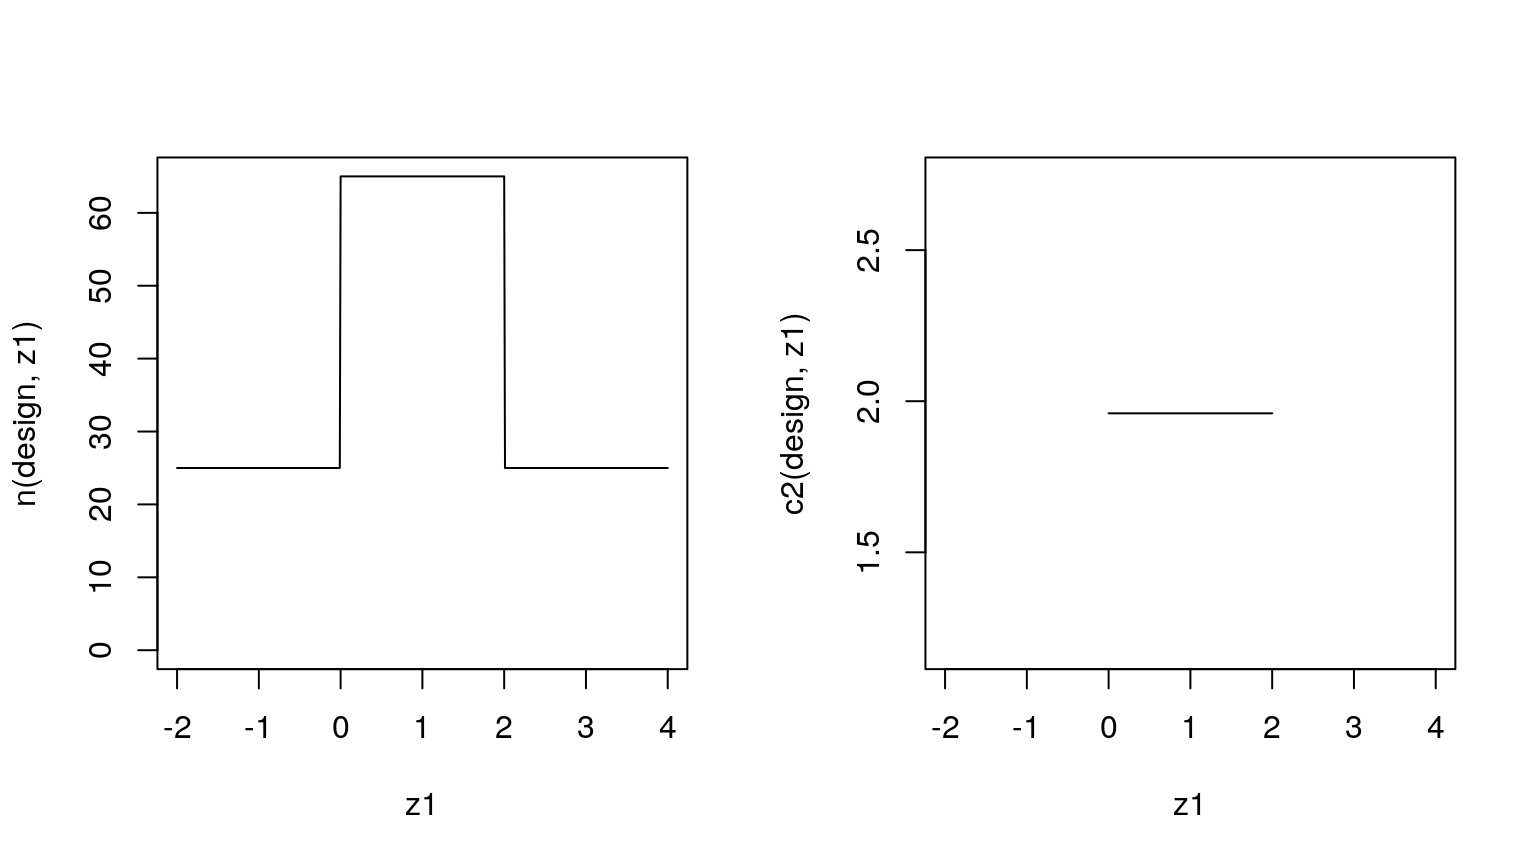
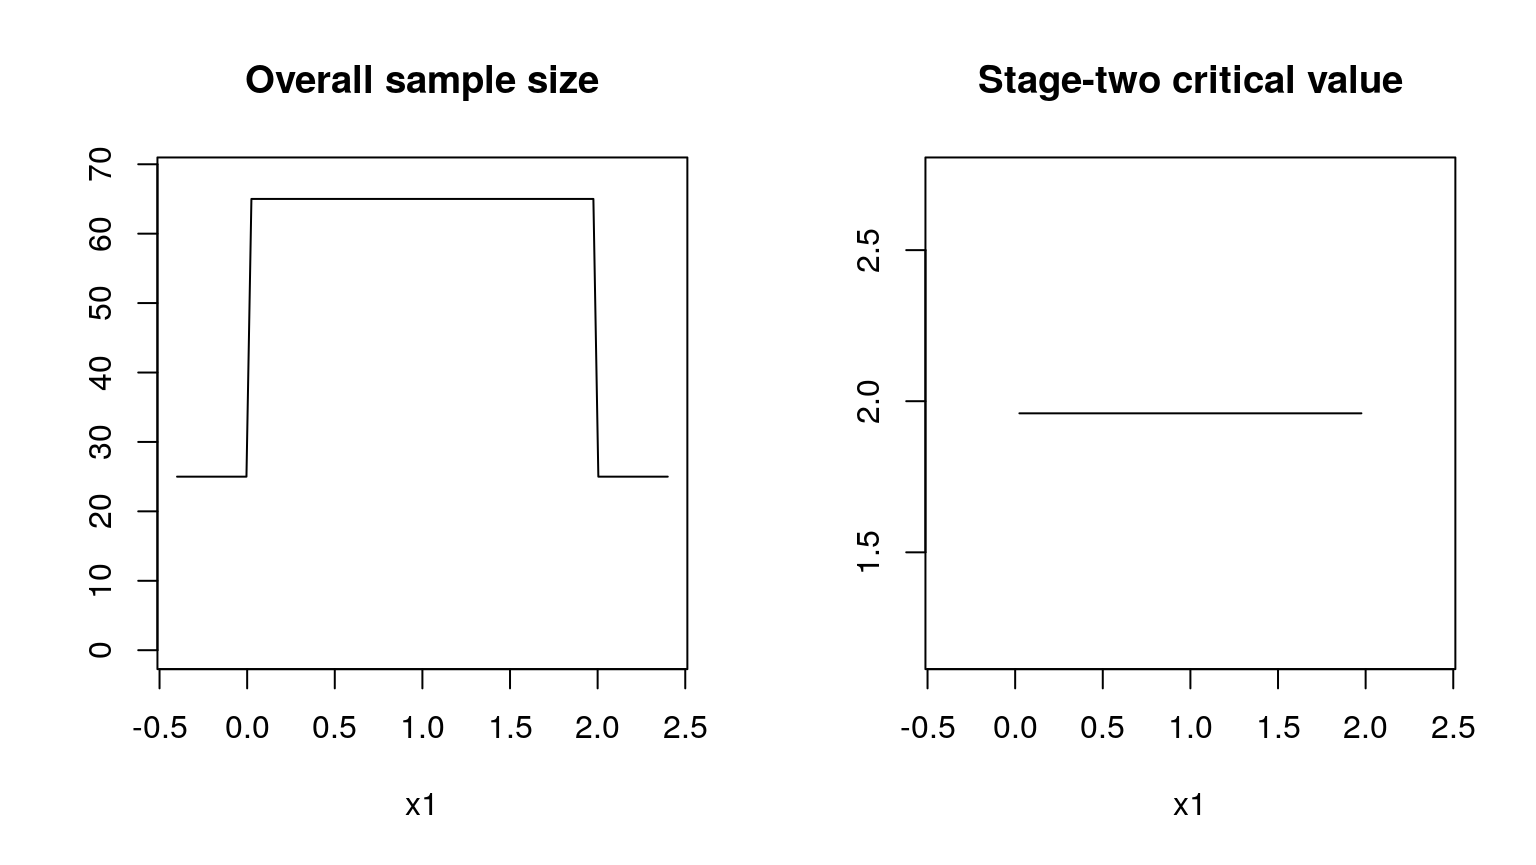
updated pkgdown

diff --git a/docs/reference/TwoStagDesign-class.html b/docs/reference/TwoStagDesign-class.html
@@ -1,0 +1,161 @@
+<!-- Generated by pkgdown: do not edit by hand -->
+<!DOCTYPE html>
+<html>
+  <head>
+  <meta charset="utf-8">
+<meta http-equiv="X-UA-Compatible" content="IE=edge">
+<meta name="viewport" content="width=device-width, initial-scale=1.0">
+
+<title>Plot TwoStageDesign with optional set of conditional scores — plot,TwoStageDesign-method • otsd</title>
+
+<!-- jquery -->
+<script src="https://code.jquery.com/jquery-3.1.0.min.js" integrity="sha384-nrOSfDHtoPMzJHjVTdCopGqIqeYETSXhZDFyniQ8ZHcVy08QesyHcnOUpMpqnmWq" crossorigin="anonymous"></script>
+<!-- Bootstrap -->
+
+<link href="https://maxcdn.bootstrapcdn.com/bootstrap/3.3.7/css/bootstrap.min.css" rel="stylesheet" integrity="sha384-BVYiiSIFeK1dGmJRAkycuHAHRg32OmUcww7on3RYdg4Va+PmSTsz/K68vbdEjh4u" crossorigin="anonymous">
+<script src="https://maxcdn.bootstrapcdn.com/bootstrap/3.3.7/js/bootstrap.min.js" integrity="sha384-Tc5IQib027qvyjSMfHjOMaLkfuWVxZxUPnCJA7l2mCWNIpG9mGCD8wGNIcPD7Txa" crossorigin="anonymous"></script>
+
+<!-- Font Awesome icons -->
+<link href="https://maxcdn.bootstrapcdn.com/font-awesome/4.6.3/css/font-awesome.min.css" rel="stylesheet" integrity="sha384-T8Gy5hrqNKT+hzMclPo118YTQO6cYprQmhrYwIiQ/3axmI1hQomh7Ud2hPOy8SP1" crossorigin="anonymous">
+
+<!-- clipboard.js -->
+<script src="https://cdnjs.cloudflare.com/ajax/libs/clipboard.js/1.7.1/clipboard.min.js" integrity="sha384-cV+rhyOuRHc9Ub/91rihWcGmMmCXDeksTtCihMupQHSsi8GIIRDG0ThDc3HGQFJ3" crossorigin="anonymous"></script>
+
+<!-- sticky kit -->
+<script src="https://cdnjs.cloudflare.com/ajax/libs/sticky-kit/1.1.3/sticky-kit.min.js" integrity="sha256-c4Rlo1ZozqTPE2RLuvbusY3+SU1pQaJC0TjuhygMipw=" crossorigin="anonymous"></script>
+
+<!-- pkgdown -->
+<link href="../pkgdown.css" rel="stylesheet">
+<script src="../pkgdown.js"></script>
+
+
+
+<meta property="og:title" content="Plot TwoStageDesign with optional set of conditional scores — plot,TwoStageDesign-method" />
+
+<meta property="og:description" content="[TODO]" />
+<meta name="twitter:card" content="summary" />
+
+
+
+<!-- mathjax -->
+<script src='https://mathjax.rstudio.com/latest/MathJax.js?config=TeX-AMS-MML_HTMLorMML'></script>
+
+<!--[if lt IE 9]>
+<script src="https://oss.maxcdn.com/html5shiv/3.7.3/html5shiv.min.js"></script>
+<script src="https://oss.maxcdn.com/respond/1.4.2/respond.min.js"></script>
+<![endif]-->
+
+
+  </head>
+
+  <body>
+    <div class="container template-reference-topic">
+      <header>
+      <div class="navbar navbar-default navbar-fixed-top" role="navigation">
+  <div class="container">
+    <div class="navbar-header">
+      <button type="button" class="navbar-toggle collapsed" data-toggle="collapse" data-target="#navbar">
+        <span class="icon-bar"></span>
+        <span class="icon-bar"></span>
+        <span class="icon-bar"></span>
+      </button>
+      <span class="navbar-brand">
+        <a class="navbar-link" href="../index.html">otsd</a>
+        <span class="label label-default" data-toggle="tooltip" data-placement="bottom" title="Released package">0.1.0</span>
+      </span>
+    </div>
+
+    <div id="navbar" class="navbar-collapse collapse">
+      <ul class="nav navbar-nav">
+        <li>
+  <a href="../index.html">
+    <span class="fa fa-home fa-lg"></span>
+     
+  </a>
+</li>
+<li>
+  <a href="../articles/otsd.html">Get started</a>
+</li>
+<li>
+  <a href="../reference/index.html">Reference</a>
+</li>
+      </ul>
+      
+      <ul class="nav navbar-nav navbar-right">
+        <li>
+  <a href="https://github.com/kkmann/otsd">
+    <span class="fa fa-github fa-lg"></span>
+     
+  </a>
+</li>
+      </ul>
+      
+    </div><!--/.nav-collapse -->
+  </div><!--/.container -->
+</div><!--/.navbar -->
+
+      
+      </header>
+
+<div class="row">
+  <div class="col-md-9 contents">
+    <div class="page-header">
+    <h1>Plot TwoStageDesign with optional set of conditional scores</h1>
+    <small class="dont-index">Source: <a href='https://github.com/kkmann/otsd/blob/master/R/TwoStageDesign.R'><code>R/TwoStageDesign.R</code></a></small>
+    <div class="hidden name"><code>TwoStagDesign-class.Rd</code></div>
+    </div>
+
+    <div class="ref-description">
+    
+    <p>[TODO]</p>
+    
+    </div>
+
+    <pre class="usage"><span class='co'># S4 method for TwoStageDesign</span>
+<span class='fu'>plot</span>(<span class='no'>x</span>, <span class='no'>...</span>, <span class='kw'>k</span> <span class='kw'>=</span> <span class='fl'>100</span>)</pre>
+    
+    <h2 class="hasAnchor" id="arguments"><a class="anchor" href="#arguments"></a>Arguments</h2>
+    <table class="ref-arguments">
+    <colgroup><col class="name" /><col class="desc" /></colgroup>
+    <tr>
+      <th>x</th>
+      <td><p>design object to plot</p></td>
+    </tr>
+    <tr>
+      <th>...</th>
+      <td><p>optinal additional named ConditionalScores to plot</p></td>
+    </tr>
+    <tr>
+      <th>k</th>
+      <td><p>number of points to use for plotting</p></td>
+    </tr>
+    </table>
+    
+
+  </div>
+  <div class="col-md-3 hidden-xs hidden-sm" id="sidebar">
+    <h2>Contents</h2>
+    <ul class="nav nav-pills nav-stacked">
+      <li><a href="#arguments">Arguments</a></li>
+                </ul>
+
+  </div>
+</div>
+
+      <footer>
+      <div class="copyright">
+  <p>Developed by Kevin Kunzmann, Maximilian Pilz.</p>
+</div>
+
+<div class="pkgdown">
+  <p>Site built with <a href="http://pkgdown.r-lib.org/">pkgdown</a>.</p>
+</div>
+
+      </footer>
+   </div>
+
+  
+
+  </body>
+</html>
+

diff --git a/docs/articles/otsd.html b/docs/articles/otsd.html
@@ -70,7 +70,7 @@
       <h1>OTSD quickstart</h1>
                         <h4 class="author">Kevin Kunzmann</h4>
             
-            <h4 class="date">2018-12-10</h4>
+            <h4 class="date">2018-12-11</h4>
       
       <small class="dont-index">Source: <a href="https://github.com/kkmann/otsd/blob/master/vignettes/otsd.Rmd"><code>vignettes/otsd.Rmd</code></a></small>
       <div class="hidden name"><code>otsd.Rmd</code></div>
@@ -91,9 +91,7 @@
 <a class="sourceLine" id="cb1-9" data-line-number="9">  <span class="dt">order =</span> order)</a>
 <a class="sourceLine" id="cb1-10" data-line-number="10"><span class="co">#TODO we need nice output for out designs...</span></a></code></pre></div>
 <div class="sourceCode" id="cb2"><pre class="sourceCode r"><code class="sourceCode r"><a class="sourceLine" id="cb2-1" data-line-number="1">z1 &lt;-<span class="st"> </span><span class="kw">seq</span>(<span class="op">-</span><span class="dv">2</span>, <span class="dv">4</span>, <span class="fl">.01</span>)</a>
-<a class="sourceLine" id="cb2-2" data-line-number="2"><span class="kw">par</span>(<span class="dt">mfrow =</span> <span class="kw">c</span>(<span class="dv">1</span>, <span class="dv">2</span>))</a>
-<a class="sourceLine" id="cb2-3" data-line-number="3"><span class="kw">plot</span>(z1, <span class="kw"><a href="../reference/TwoStageDesign-class.html">n</a></span>(design, z1), <span class="st">'l'</span>, <span class="dt">ylim =</span> <span class="kw">c</span>(<span class="dv">0</span>, <span class="kw">max</span>(<span class="kw"><a href="../reference/TwoStageDesign-class.html">n</a></span>(design, z1))))</a>
-<a class="sourceLine" id="cb2-4" data-line-number="4"><span class="kw">plot</span>(z1, <span class="kw"><a href="../reference/TwoStageDesign-class.html">c2</a></span>(design, z1), <span class="st">'l'</span>)</a></code></pre></div>
+<a class="sourceLine" id="cb2-2" data-line-number="2"><span class="kw">plot</span>(design)</a></code></pre></div>
 <p><img src="otsd_files/figure-html/plot-design-1.png" width="768"></p>
 <div id="define-scores" class="section level1">
 <h1 class="hasAnchor">
@@ -121,7 +119,7 @@
 <div class="sourceCode" id="cb5"><pre class="sourceCode r"><code class="sourceCode r"><a class="sourceLine" id="cb5-1" data-line-number="1"><span class="kw"><a href="../reference/minimize.html">minimize</a></span>(</a>
 <a class="sourceLine" id="cb5-2" data-line-number="2">  ess <span class="op">+</span><span class="st"> </span><span class="fl">0.001</span><span class="op">*</span>smth,</a>
 <a class="sourceLine" id="cb5-3" data-line-number="3">  <span class="kw"><a href="../reference/ConstraintsCollection-class.html">subject_to</a></span>(</a>
-<a class="sourceLine" id="cb5-4" data-line-number="4">    pow <span class="op">&gt;=</span><span class="st"> </span><span class="fl">0.8</span>,</a>
+<a class="sourceLine" id="cb5-4" data-line-number="4">    pow  <span class="op">&gt;=</span><span class="st"> </span><span class="fl">0.8</span>,</a>
 <a class="sourceLine" id="cb5-5" data-line-number="5">    toer <span class="op">&lt;=</span><span class="st"> </span><span class="fl">.05</span></a>
 <a class="sourceLine" id="cb5-6" data-line-number="6">  ),</a>
 <a class="sourceLine" id="cb5-7" data-line-number="7">  <span class="dt">initial_design =</span> design,</a>
@@ -130,9 +128,7 @@
 <a class="sourceLine" id="cb5-10" data-line-number="10">) -&gt;</a>
 <a class="sourceLine" id="cb5-11" data-line-number="11"><span class="st">  </span>optimal_design</a>
 <a class="sourceLine" id="cb5-12" data-line-number="12"></a>
-<a class="sourceLine" id="cb5-13" data-line-number="13"><span class="kw">par</span>(<span class="dt">mfrow =</span> <span class="kw">c</span>(<span class="dv">1</span>, <span class="dv">2</span>))</a>
-<a class="sourceLine" id="cb5-14" data-line-number="14"><span class="kw">plot</span>(z1, <span class="kw"><a href="../reference/TwoStageDesign-class.html">n</a></span>(optimal_design, z1), <span class="st">'l'</span>, <span class="dt">ylim =</span> <span class="kw">c</span>(<span class="dv">0</span>, <span class="kw">max</span>(<span class="kw"><a href="../reference/TwoStageDesign-class.html">n</a></span>(optimal_design, z1))))</a>
-<a class="sourceLine" id="cb5-15" data-line-number="15"><span class="kw">plot</span>(z1, <span class="kw"><a href="../reference/TwoStageDesign-class.html">c2</a></span>(optimal_design, z1), <span class="st">'l'</span>)</a></code></pre></div>
+<a class="sourceLine" id="cb5-13" data-line-number="13"><span class="kw">plot</span>(optimal_design, <span class="st">"Conditional power"</span> =<span class="st"> </span>cp)</a></code></pre></div>
 <p><img src="otsd_files/figure-html/unnamed-chunk-1-1.png" width="768"></p>
 <p>Compute the scores using fast internal representation (Gauss quadrature).</p>
 <div class="sourceCode" id="cb6"><pre class="sourceCode r"><code class="sourceCode r"><a class="sourceLine" id="cb6-1" data-line-number="1"><span class="kw">do.call</span>(sprintf, <span class="kw">c</span>(</a>

diff --git a/docs/reference/index.html b/docs/reference/index.html
@@ -214,6 +214,12 @@
       </tr><tr>
         
         <td>
+          <p><code><a href="TwoStagDesign-class.html">plot(<i>&lt;TwoStageDesign&gt;</i>)</a></code> </p>
+        </td>
+        <td><p>Plot TwoStageDesign with optional set of conditional scores</p></td>
+      </tr><tr>
+        
+        <td>
           <p><code><a href="TwoStageDesign-class.html">TwoStageDesign()</a></code> <code><a href="TwoStageDesign-class.html">GQDesign()</a></code> <code><a href="TwoStageDesign-class.html">tunable_parameters()</a></code> <code><a href="TwoStageDesign-class.html">update(<i>&lt;TwoStageDesign&gt;</i>)</a></code> <code><a href="TwoStageDesign-class.html">n2()</a></code> <code><a href="TwoStageDesign-class.html">n()</a></code> <code><a href="TwoStageDesign-class.html">c2()</a></code> <code><a href="TwoStageDesign-class.html">scaled_integration_pivots()</a></code> </p>
         </td>
         <td><p>Two-stage designs</p></td>
